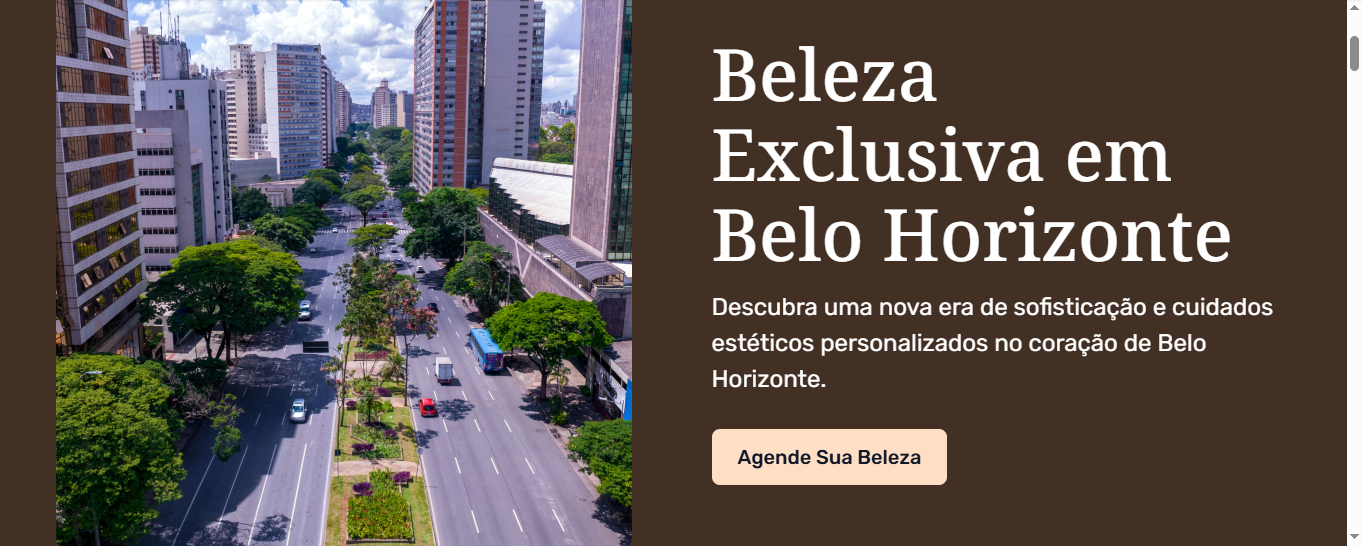
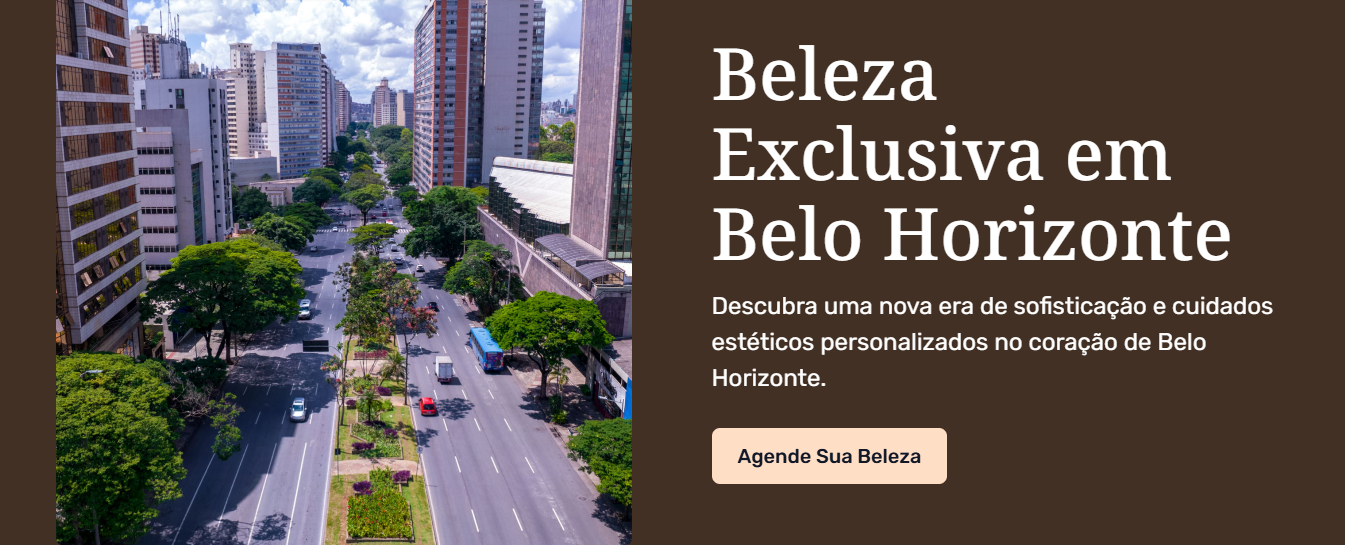
[projet-fix] ajuste de imagens

diff --git a/css/estilo.css b/css/estilo.css
@@ -74,15 +74,6 @@ div#container-page{ /*--------- pagina geral --------------*/
 	color: red;
 }
 
-/* ------------------------------------ CONTAINER IMAGENS MENU ---------------------------------------------------------------------------*/
-
-div#container-logo{
-	position: absolute;
-	position:; /* usado para poder se movimentar em relação ao pai (container-page) */
-	width: 30%;
-	top: 8%;
-	left: 33%;
-}
 
 
 .whats-logo,
@@ -105,14 +96,20 @@ div#container-logo{
 .banner-1{
     width: 100%;
     height: 40%;
-    border: 3px solid red;
 }
 .img-banner-1{ /* tamanho imagem se adaptando ao container */
 	width: 100%;
 	height: 100%; /* para nao aumentar junto com tamanho da pagina geral */
 }
 
-/*------------------------------------- IMAGENS e containers ------------------------------------------------------------------------------------------*/
+
+/* ------------------------------------ CONTAINER IMAGENS MENU e imagem ---------------------------------------------------------------------------*/
+div#container-logo{
+	position: absolute;
+	width: 30%;
+	top: 20%;
+	left: 33%;
+}
 img#logo-menu{ /* tamanho imagem se adaptando ao container */
 	width: 100%;
 	height: 100%;

diff --git a/index.php b/index.php
@@ -131,7 +131,7 @@
 
             <!----- CONTAINER DA LOGOMARCA -------------------------->
             <div id="container-logo">
-                <img src="img/logosomente.png" id="logo-menu"> <!-- imagem logo -->
+                <img src="img/logosomente.png" id="logo-menu" class="logo-menu"> <!-- imagem logo -->
             </div>
 
       </div>
